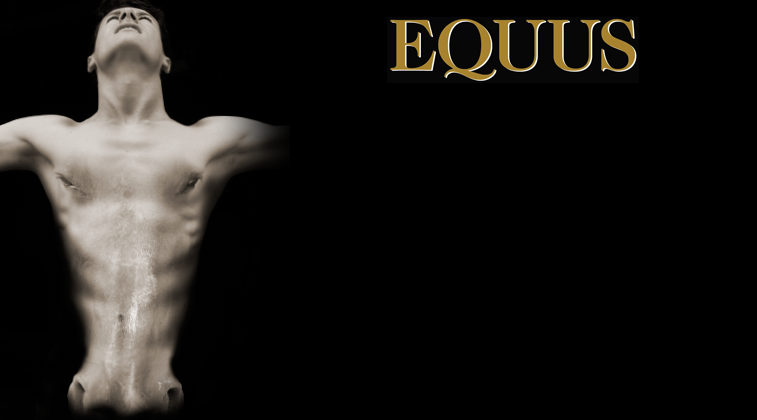
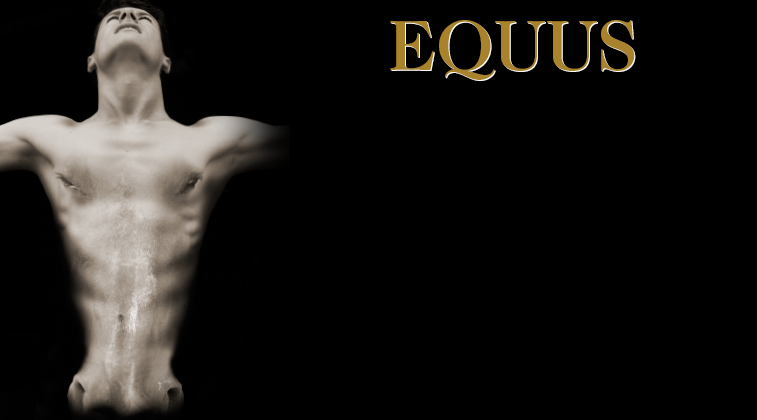
equus update afgewerkt

Changed region(s): [[0.5165, 0.031, 0.8507, 0.1857]]

diff --git a/public_html/templates/toverlantaarn-update1/template.htm b/public_html/templates/toverlantaarn-update1/template.htm
@@ -1,6 +1,12 @@
 <!DOCTYPE html PUBLIC "-//W3C//DTD XHTML 1.0 Transitional//EN" "http://www.w3.org/TR/xhtml1/DTD/xhtml1-transitional.dtd">
 <html xmlns="http://www.w3.org/1999/xhtml">
 <head>
+    
+     <meta property="og:type"                 content="website"> 
+     <meta property="og:url"                  content="http://www.detoverlantaarn.be/equus.php"> 
+     <meta property="og:image"                content="http://www.detoverlantaarn.be/images/equus/fbavatar.png">
+     <meta property="og:title"                content="EQUUS">
+     <meta property="og:description"          content="Wat brengt Alan Strang (Jeroen Logghe), een jonge, 17-jarige, verwarde stalknecht, ertoe om zes paarden met een metalen haak blind te maken?">
 <script type="text/javascript" src="/modules/ticketserver/javascript/tickets.js"></script>
 <script type="text/javascript" src="/modules/ticketserver/postcodes/postcodes.js"></script>
 <script type="text/javascript" SRC="/core/logic/common.js"></script>

diff --git a/public_html/extracss/equus.css b/public_html/extracss/equus.css
@@ -45,7 +45,7 @@ h3 {
 }
 
 #video {
-    padding-top: 10px;
+    padding-top: 50px;
 }
 
 ul{
